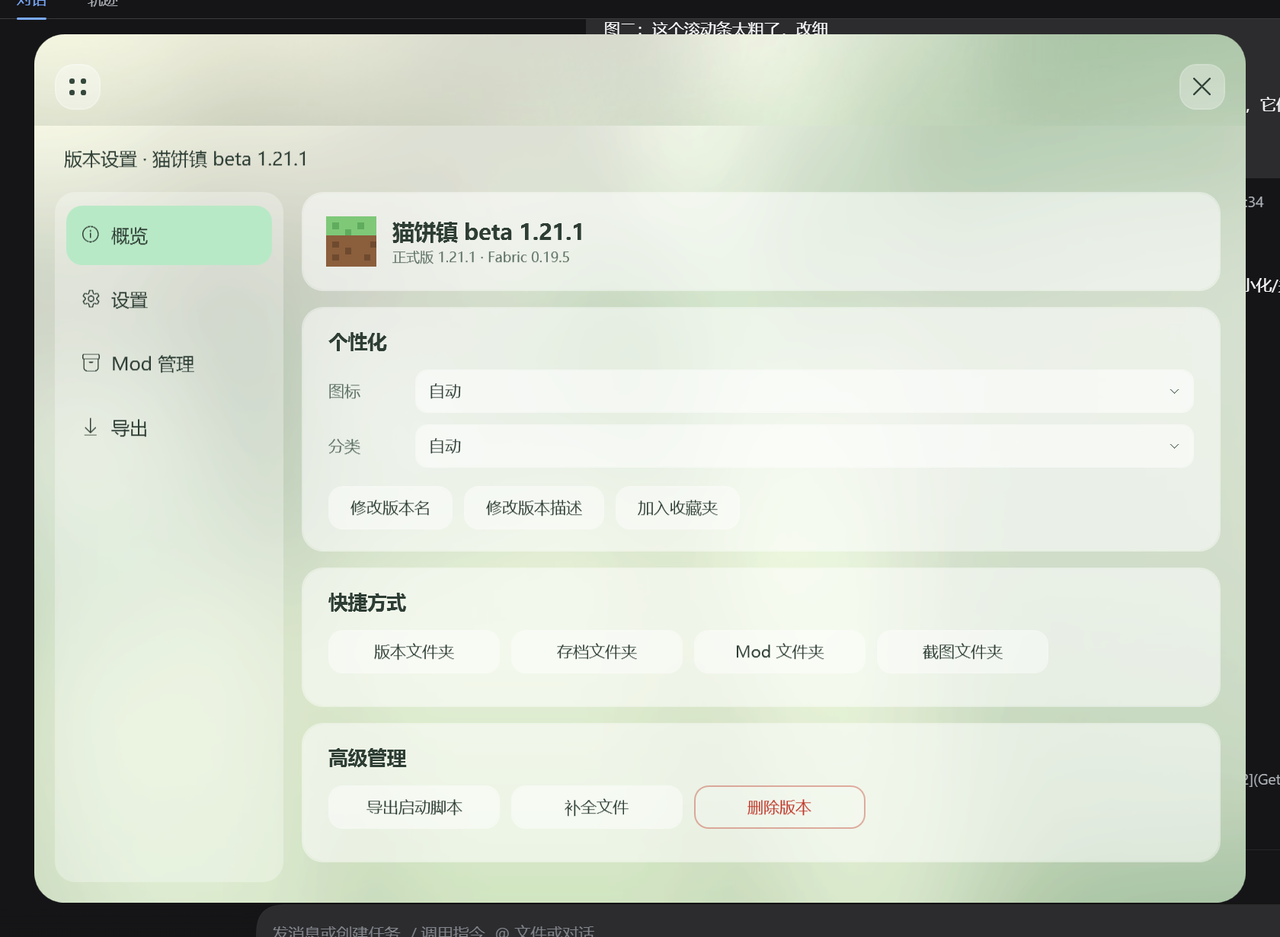
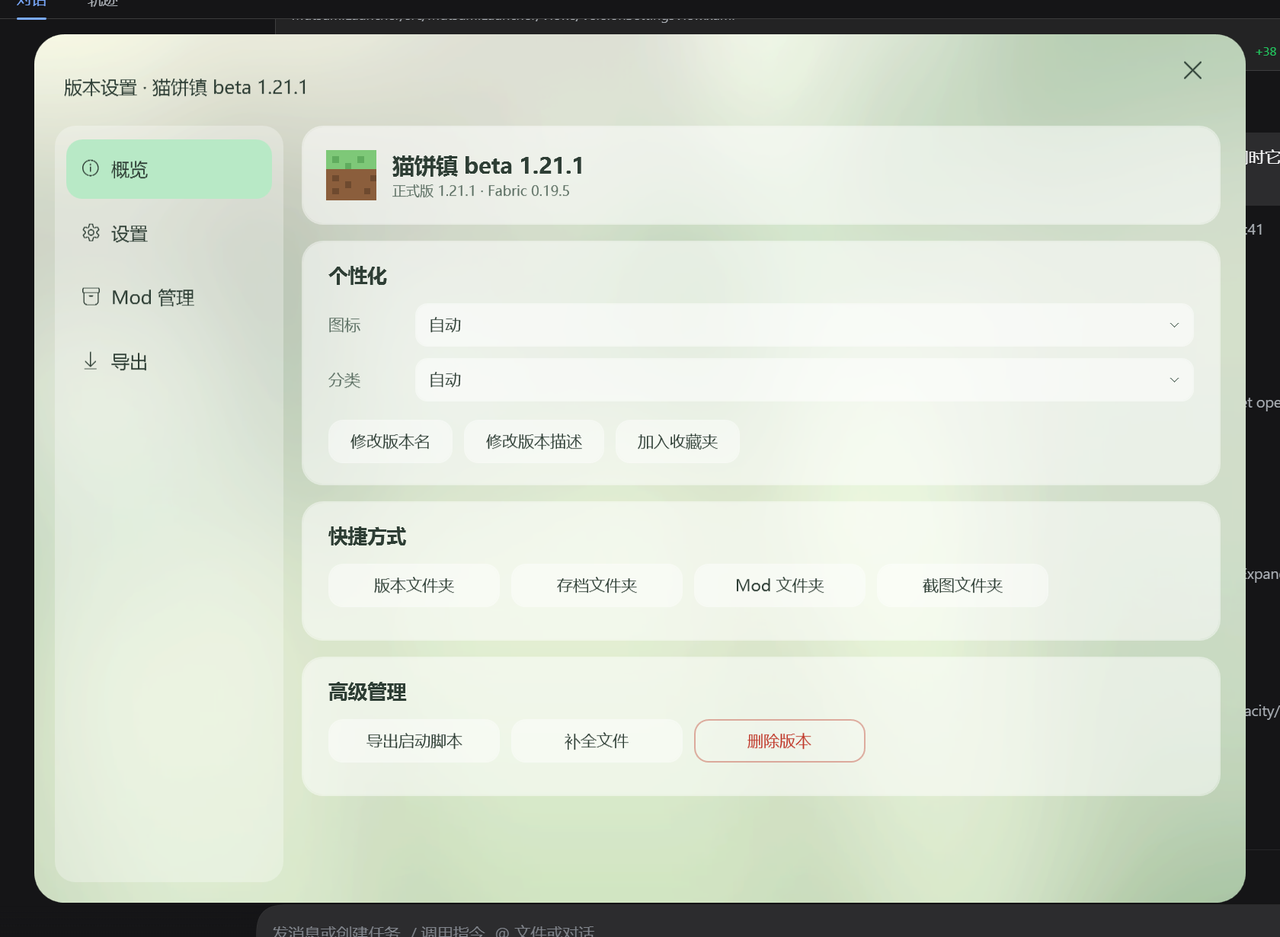
fix: 版本设置浮层覆盖标题栏，主按钮溶解，浮层自带关闭并回滑

diff --git a/src/MutsumiLauncher/Views/VersionSettingsView.xaml b/src/MutsumiLauncher/Views/VersionSettingsView.xaml
@@ -3,7 +3,7 @@
              xmlns:x="http://schemas.microsoft.com/winfx/2006/xaml"
              FontFamily="{StaticResource UiFont}">
 
-    <Border Background="#F2F7FBF4" CornerRadius="22" ClipToBounds="True">
+    <Border Background="#F2F7FBF4" ClipToBounds="True">
         <Grid>
             <Image Source="/Assets/background.jpg" Stretch="UniformToFill" Margin="-90">
                 <Image.Effect>
@@ -14,13 +14,20 @@
 
             <Grid>
                 <Grid.RowDefinitions>
-                    <RowDefinition Height="58" />
+                    <RowDefinition Height="80" />
                     <RowDefinition Height="*" />
                 </Grid.RowDefinitions>
 
-                <TextBlock Text="版本设置 · 猫饼镇 beta 1.21.1" FontSize="16"
-                           Foreground="{StaticResource Ink}" VerticalAlignment="Center"
-                           Margin="26,0,0,0" />
+                <!-- 浮层自己的标题栏：标题 + 关闭（拖动整窗） -->
+                <Grid Grid.Row="0" Margin="26,12,26,0" Background="Transparent"
+                      MouseLeftButtonDown="Header_MouseLeftButtonDown">
+                    <TextBlock Text="版本设置 · 猫饼镇 beta 1.21.1" FontSize="16"
+                               Foreground="{StaticResource Ink}" VerticalAlignment="Center"
+                               Margin="0,0,60,0" />
+                    <Button Style="{StaticResource CloseButton}" Content="&#xE8BB;"
+                            HorizontalAlignment="Right" VerticalAlignment="Top"
+                            Click="Close_Click" ToolTip="关闭" />
+                </Grid>
 
                 <Grid Grid.Row="1" Margin="18,0,18,18">
                     <Grid.ColumnDefinitions>

diff --git a/src/MutsumiLauncher/Views/MainWindow.xaml b/src/MutsumiLauncher/Views/MainWindow.xaml
@@ -110,8 +110,8 @@
                     <!-- 页面宿主 -->
                     <ContentControl x:Name="PageHost" Grid.Row="1" />
 
-                    <!-- 版本设置浮层：从底部滑出，覆盖内容区（不含标题栏） -->
-                    <ContentControl x:Name="SettingsHost" Grid.Row="1" Panel.ZIndex="20"
+                    <!-- 版本设置浮层：从底部滑出，覆盖整个窗口（含标题栏） -->
+                    <ContentControl x:Name="SettingsHost" Grid.Row="0" Grid.RowSpan="2" Panel.ZIndex="20"
                                     Visibility="Collapsed" HorizontalContentAlignment="Stretch"
                                     VerticalContentAlignment="Stretch">
                         <ContentControl.RenderTransform>

diff --git a/src/MutsumiLauncher/Views/MainWindow.xaml.cs b/src/MutsumiLauncher/Views/MainWindow.xaml.cs
@@ -180,27 +180,33 @@ public partial class MainWindow : Window
         if (_settingsOpen) return;
         _settingsOpen = true;
 
-        _settingsView ??= new VersionSettingsView();
+        if (_settingsView is null)
+        {
+            _settingsView = new VersionSettingsView();
+            _settingsView.CloseRequested += (_, _) => CloseVersionSettings();
+        }
+
         SettingsHost.Content = _settingsView;
         SettingsHost.Visibility = Visibility.Visible;
-
-        // 标题栏保持可用，但不选中任何页签
-        NavTabs.Visibility = Visibility.Visible;
-        _suppressNav = true;
-        NavLaunch.IsChecked = false;
-        NavDownload.IsChecked = false;
-        NavSettings.IsChecked = false;
-        _suppressNav = false;
 
         var translate = (TranslateTransform)SettingsHost.RenderTransform;
         var ease = new CubicEase { EasingMode = EasingMode.EaseOut };
 
         SettingsHost.Opacity = 0;
-        translate.Y = 240;
+        translate.Y = 320;
         SettingsHost.BeginAnimation(OpacityProperty,
-            new DoubleAnimation(0, 1, TimeSpan.FromMilliseconds(240)) { EasingFunction = ease });
+            new DoubleAnimation(0, 1, TimeSpan.FromMilliseconds(260)) { EasingFunction = ease });
         translate.BeginAnimation(TranslateTransform.YProperty,
-            new DoubleAnimation(240, 0, TimeSpan.FromMilliseconds(340)) { EasingFunction = ease });
+            new DoubleAnimation(320, 0, TimeSpan.FromMilliseconds(380)) { EasingFunction = ease });
+
+        // 主界面标题栏按钮随浮层升起溶解
+        var dissolve = new CubicEase { EasingMode = EasingMode.EaseOut };
+        MenuButton.BeginAnimation(OpacityProperty,
+            new DoubleAnimation(1, 0, TimeSpan.FromMilliseconds(200)) { EasingFunction = dissolve });
+        CloseButton.BeginAnimation(OpacityProperty,
+            new DoubleAnimation(1, 0, TimeSpan.FromMilliseconds(200)) { EasingFunction = dissolve });
+        NavTabs.BeginAnimation(OpacityProperty,
+            new DoubleAnimation(NavTabs.Opacity, 0, TimeSpan.FromMilliseconds(160)));
     }
 
     private void CloseVersionSettings()
@@ -212,11 +218,38 @@ public partial class MainWindow : Window
         var ease = new CubicEase { EasingMode = EasingMode.EaseIn };
 
         SettingsHost.BeginAnimation(OpacityProperty,
-            new DoubleAnimation(1, 0, TimeSpan.FromMilliseconds(200)) { EasingFunction = ease });
+            new DoubleAnimation(1, 0, TimeSpan.FromMilliseconds(220)) { EasingFunction = ease });
 
-        var slide = new DoubleAnimation(0, 240, TimeSpan.FromMilliseconds(260)) { EasingFunction = ease };
-        slide.Completed += (_, _) => SettingsHost.Visibility = Visibility.Collapsed;
+        var slide = new DoubleAnimation(0, 320, TimeSpan.FromMilliseconds(320)) { EasingFunction = ease };
+        slide.Completed += (_, _) =>
+        {
+            SettingsHost.Visibility = Visibility.Collapsed;
+
+            // 清掉动画后再复原标题栏与导航层状态
+            MenuButton.BeginAnimation(OpacityProperty, null);
+            CloseButton.BeginAnimation(OpacityProperty, null);
+            NavTabs.BeginAnimation(OpacityProperty, null);
+            MenuButton.Opacity = 1;
+            CloseButton.Opacity = 1;
+
+            _suppressNav = true;
+            NavLaunch.IsChecked = _currentPage == "launch";
+            NavDownload.IsChecked = _currentPage == "download";
+            NavSettings.IsChecked = _currentPage == "settings";
+            _suppressNav = false;
+
+            SetNavExpanded(_currentPage != "launch", animate: false);
+        };
         translate.BeginAnimation(TranslateTransform.YProperty, slide);
+
+        // 标题栏按钮随浮层退场而复原
+        var appear = new DoubleAnimation(0, 1, TimeSpan.FromMilliseconds(220))
+        {
+            BeginTime = TimeSpan.FromMilliseconds(120),
+            EasingFunction = new CubicEase { EasingMode = EasingMode.EaseOut },
+        };
+        MenuButton.BeginAnimation(OpacityProperty, appear);
+        CloseButton.BeginAnimation(OpacityProperty, appear);
     }
 
     private void MenuButton_Click(object sender, RoutedEventArgs e) => SetNavExpanded(!_navExpanded);

diff --git a/src/MutsumiLauncher/Views/VersionSettingsView.xaml.cs b/src/MutsumiLauncher/Views/VersionSettingsView.xaml.cs
@@ -1,5 +1,6 @@
 using System.Windows;
 using System.Windows.Controls;
+using System.Windows.Input;
 using MutsumiLauncher.Views.VersionSettings;
 
 namespace MutsumiLauncher.Views;
@@ -20,6 +21,9 @@ public partial class VersionSettingsView : UserControl
         ShowPage("overview");
     }
 
+    /// <summary>点击浮层自带的关闭按钮时触发，由主窗口负责滑回动画。</summary>
+    public event EventHandler? CloseRequested;
+
     private void ShowPage(string key)
     {
         if (!_pages.TryGetValue(key, out var page)) return;
@@ -34,5 +38,12 @@ public partial class VersionSettingsView : UserControl
     {
         if (_pages.Count == 0) return;
         if (sender is RadioButton { Tag: string key }) ShowPage(key);
+    }
+
+    private void Close_Click(object sender, RoutedEventArgs e) => CloseRequested?.Invoke(this, EventArgs.Empty);
+
+    private void Header_MouseLeftButtonDown(object sender, MouseButtonEventArgs e)
+    {
+        if (e.ButtonState == MouseButtonState.Pressed) Window.GetWindow(this)?.DragMove();
     }
 }

diff --git a/README.md b/README.md
@@ -58,7 +58,7 @@ MutsumiLauncher/
 - **下载页**：左侧来源列表（原版资源 / 社区资源及其子类），右侧「最新版本」卡片 + 四个可折叠版本分组，切换页面时背景自动高斯模糊。
 - **设置页**：外观、下载源、Java、数据目录占位项。
 - **汉堡菜单**：点击左上角按钮，导航条会从按钮本身的形状向右生长成整条玻璃导航层（启动 / 下载 / 设置），右侧关闭按钮的底片同步溶解、与导航条融为一条；启动页上点击层外自动收起，子页上常驻；页面切换带淡入动画；底部有轻提示（Toast）。
-- **版本设置浮层**：启动页版本胶囊右侧的齿轮打开，在同一窗口内从底部滑出（不单独占窗口/任务栏，拖动与关闭仍走主窗口标题栏）；左侧「概览 / 设置 / Mod 管理 / 导出」四页，玻璃卡片 + 自绘下拉框 / 勾选框 / 单选按钮 / 滑杆。
+- **版本设置浮层**：启动页版本胶囊右侧的齿轮打开，在同一窗口内从底部滑出并覆盖整窗（含标题栏，主界面按钮同步溶解）；浮层自带关闭按钮，关闭时向下滑回；左侧「概览 / 设置 / Mod 管理 / 导出」四页，玻璃卡片 + 自绘下拉框 / 勾选框 / 单选按钮 / 滑杆。
   - 概览：版本信息、个性化、快捷方式、高级管理（导出启动脚本 / 补全文件 / 删除版本）
   - 设置：启动选项、内存分配（滑杆 + 内存占用条）、服务器、高级选项折叠区、全局设置入口
   - Mod 管理：名称搜索、启用状态过滤、回到顶部悬浮按钮
